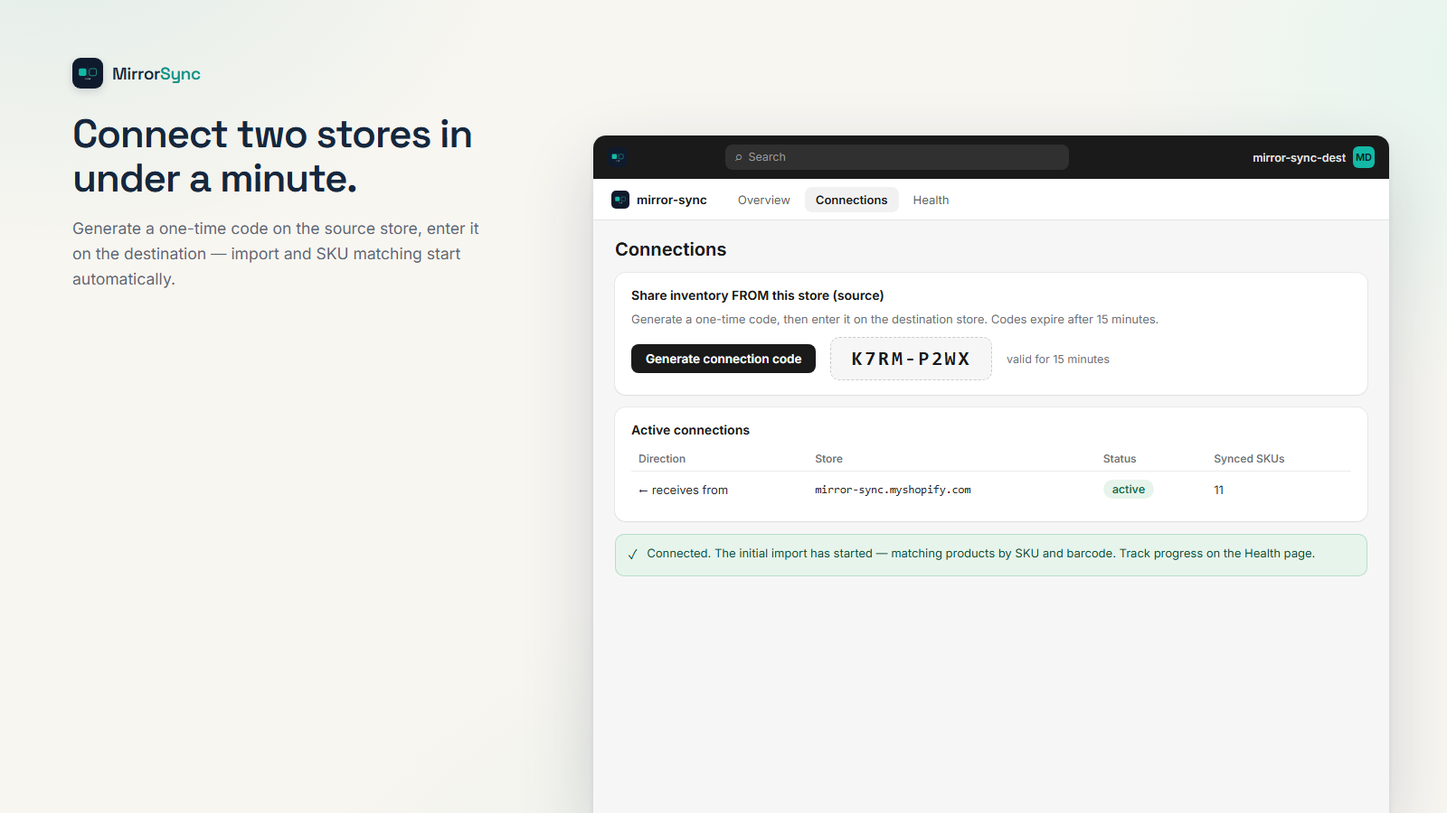
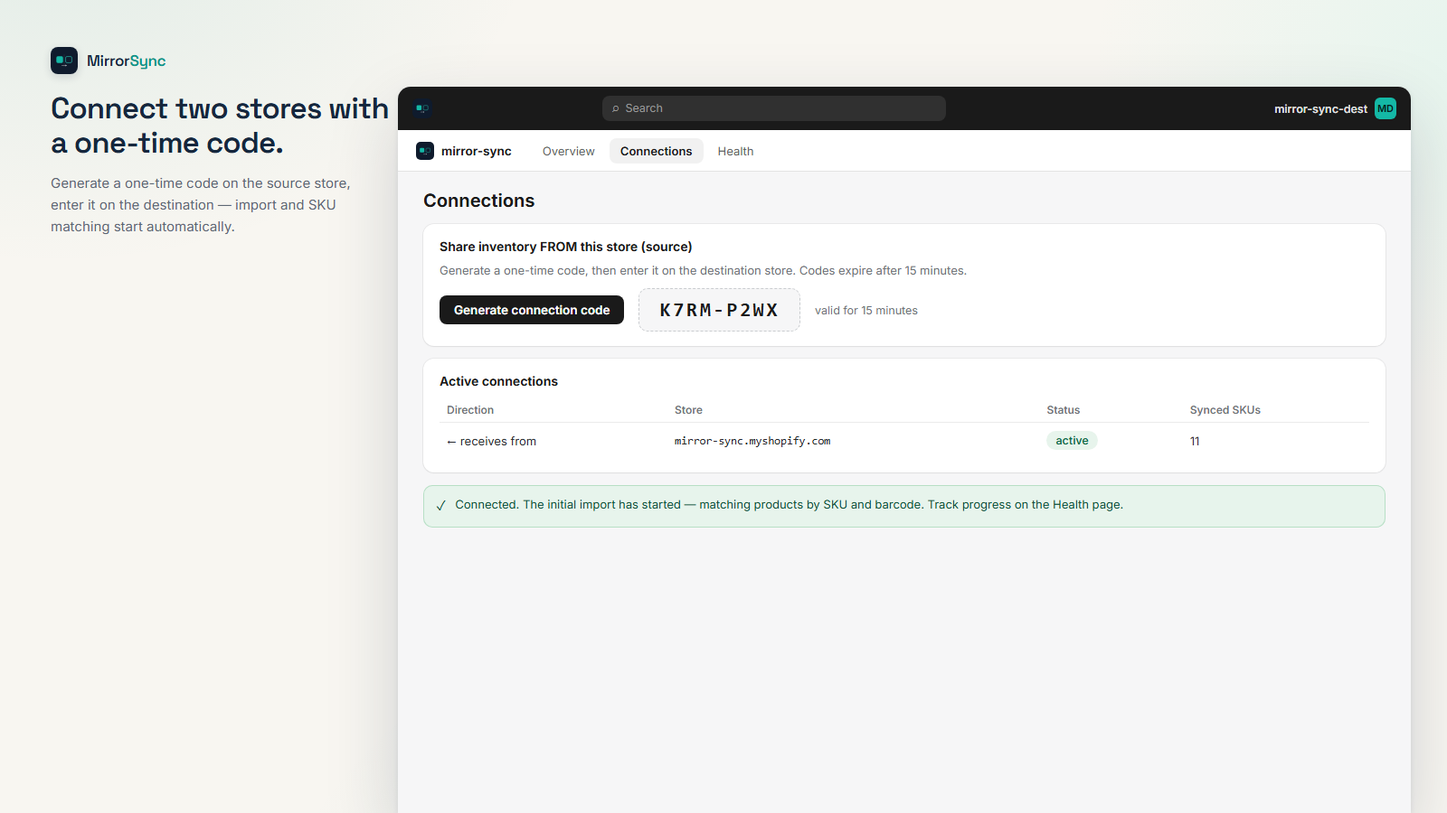
Listing compliance: remove absolute claims, UI-dominant images + feature image
Shopify's listing AI check flagged unsubstantiated claims and a
logo-only feature image. Copy now uses mechanism-based wording (dropped
'never oversells', 'quantities never go negative', 'guaranteed
convergence', 'under 30 seconds'/'under a minute'). Images regenerated
with the admin window dominant (1120px wide) and a new 0-feature.png
(near-full-width UI, slim brand band) for the Feature Image slot.

diff --git a/listing-assets/src/0-feature.html b/listing-assets/src/0-feature.html
@@ -1,0 +1,102 @@
+<!doctype html><html><head><meta charset="utf-8">
+<link rel="preconnect" href="https://fonts.googleapis.com">
+<link href="https://fonts.googleapis.com/css2?family=Space+Grotesk:wght@500;600&family=Inter:wght@400;450;550;600;650&display=swap" rel="stylesheet">
+<style>
+  * { margin:0; padding:0; box-sizing:border-box; }
+  body { width:1600px; height:900px; overflow:hidden; font-family:Inter,system-ui,sans-serif;
+    background:#f8f6f1;
+    background-image:
+      radial-gradient(900px 700px at 4% -14%, rgba(13,148,136,.10), transparent 60%),
+      radial-gradient(760px 640px at 103% 8%, rgba(94,234,212,.12), transparent 58%),
+      radial-gradient(1000px 800px at 55% 125%, rgba(13,148,136,.06), transparent 62%);
+  }
+  
+  .cap { position:absolute; top:34px; left:64px; right:64px; display:flex; align-items:center; gap:18px; }
+  .brand { display:flex; align-items:center; gap:10px; }
+  .brand svg { width:30px; height:30px; border-radius:8px; box-shadow:0 3px 10px rgba(22,39,61,.16); }
+  .brand span { font-family:'Space Grotesk'; font-weight:600; font-size:17px; color:#16273d; letter-spacing:-.02em; }
+  .brand b { color:#0d9488; font-weight:600; }
+  h1 { font-family:'Space Grotesk'; font-weight:600; font-size:26px; letter-spacing:-.02em; color:#16273d; }
+  .sub { display:none; }
+  .win { position:absolute; left:64px; right:64px; top:104px; height:796px;
+    background:#f6f6f7; border-radius:14px 14px 0 0; overflow:hidden;
+    box-shadow:0 2px 6px rgba(22,39,61,.08), 0 30px 80px rgba(22,39,61,.18); }
+  .content { padding:20px 28px; height:702px; overflow:hidden; }
+  .topbar { height:48px; background:#1a1a1a; display:flex; align-items:center; padding:0 16px; gap:14px; }
+  .topbar .mark { width:22px; height:22px; border-radius:6px; }
+  .topbar .search { flex:1; max-width:380px; margin:0 auto; height:28px; background:#303030; border-radius:8px;
+    display:flex; align-items:center; padding:0 10px; color:#9a9a9a; font-size:12.5px; gap:6px; }
+  .topbar .shop { color:#e3e3e3; font-size:12.5px; font-weight:550; margin-left:auto; display:flex; align-items:center; gap:8px; }
+  .topbar .avatar { width:24px; height:24px; border-radius:6px; background:#14b8a6; color:#04231f; font-size:11px; font-weight:700;
+    display:flex; align-items:center; justify-content:center; }
+  .appnav { height:46px; background:#fff; border-bottom:1px solid #e3e3e3; display:flex; align-items:center; padding:0 20px; gap:4px; }
+  .appnav .title { display:flex; align-items:center; gap:8px; font-weight:650; font-size:13.5px; color:#1a1a1a; margin-right:18px; }
+  .appnav .title svg { width:20px; height:20px; border-radius:5px; }
+  .appnav a { font-size:13px; color:#5c5f62; padding:6px 12px; border-radius:8px; text-decoration:none; }
+  .appnav a.on { background:#f1f1f1; color:#1a1a1a; font-weight:600; }
+  .pagehead { font-weight:650; font-size:20px; color:#1a1a1a; margin-bottom:14px; }
+  .card { background:#fff; border-radius:12px; box-shadow:0 1px 2px rgba(0,0,0,.05), 0 0 0 1px rgba(0,0,0,.05); padding:16px 18px; margin-bottom:14px; }
+  .card h3 { font-size:14px; font-weight:650; color:#1a1a1a; margin-bottom:10px; }
+  table { width:100%; border-collapse:collapse; font-size:13px; color:#26292c; }
+  th { text-align:left; font-weight:550; color:#6d7175; font-size:12px; padding:6px 8px; border-bottom:1px solid #ebebeb; }
+  td { padding:9px 8px; border-bottom:1px solid #f1f1f1; vertical-align:middle; }
+  tr:last-child td { border-bottom:none; }
+  .mono { font-family:ui-monospace,Consolas,monospace; font-size:12.5px; }
+  .muted { color:#6d7175; }
+  .banner { display:flex; gap:10px; border-radius:10px; padding:12px 14px; font-size:13px; line-height:1.5; margin-bottom:14px; align-items:flex-start; }
+  .banner.warn { background:#fdf3dc; color:#57430e; box-shadow:0 0 0 1px #f0dbA5 inset; }
+  .banner.ok { background:#e7f4ec; color:#0d4f34; box-shadow:0 0 0 1px #b7dfc5 inset; }
+  .dot { width:8px; height:8px; border-radius:50%; flex:none; margin-top:6px; }
+  .act { display:flex; gap:10px; padding:9px 0; border-bottom:1px solid #f1f1f1; font-size:13px; align-items:flex-start; line-height:1.5; }
+  .act:last-child { border-bottom:none; }
+  .act time { margin-left:auto; color:#8c9196; font-size:12px; white-space:nowrap; padding-left:14px; }
+</style></head><body>
+<div class="cap">
+  <div class="brand"><svg class="" viewBox="0 0 1200 1200" xmlns="http://www.w3.org/2000/svg">
+  <rect width="1200" height="1200" rx="140" fill="#0F1B2D"/>
+  <line x1="600" y1="320" x2="600" y2="880" stroke="rgba(255,255,255,0.28)" stroke-width="10"/>
+  <rect x="252" y="412" width="296" height="296" rx="64" fill="#14B8A6"/>
+  <rect x="663" y="423" width="274" height="274" rx="56" fill="none" stroke="#2DD4BF" stroke-width="22"/>
+  <line x1="500" y1="820" x2="660" y2="820" stroke="rgba(255,255,255,0.85)" stroke-width="16" stroke-linecap="round"/>
+  <path d="M660,784 L716,820 L660,856 Z" fill="rgba(255,255,255,0.85)"/>
+</svg><span>Mirror<b>Sync</b></span></div>
+  <h1>Inventory sync that checks itself — and shows its work.</h1>
+  <p class="sub"></p>
+</div>
+<div class="win">
+  <div class="topbar">
+    <svg class="mark" viewBox="0 0 1200 1200" xmlns="http://www.w3.org/2000/svg">
+  <rect width="1200" height="1200" rx="140" fill="#0F1B2D"/>
+  <line x1="600" y1="320" x2="600" y2="880" stroke="rgba(255,255,255,0.28)" stroke-width="10"/>
+  <rect x="252" y="412" width="296" height="296" rx="64" fill="#14B8A6"/>
+  <rect x="663" y="423" width="274" height="274" rx="56" fill="none" stroke="#2DD4BF" stroke-width="22"/>
+  <line x1="500" y1="820" x2="660" y2="820" stroke="rgba(255,255,255,0.85)" stroke-width="16" stroke-linecap="round"/>
+  <path d="M660,784 L716,820 L660,856 Z" fill="rgba(255,255,255,0.85)"/>
+</svg>
+    <div class="search">⌕&nbsp; Search</div>
+    <div class="shop"><span>mirror-sync-dest</span><span class="avatar">MD</span></div>
+  </div>
+  <div class="appnav">
+    <span class="title"><svg class="" viewBox="0 0 1200 1200" xmlns="http://www.w3.org/2000/svg">
+  <rect width="1200" height="1200" rx="140" fill="#0F1B2D"/>
+  <line x1="600" y1="320" x2="600" y2="880" stroke="rgba(255,255,255,0.28)" stroke-width="10"/>
+  <rect x="252" y="412" width="296" height="296" rx="64" fill="#14B8A6"/>
+  <rect x="663" y="423" width="274" height="274" rx="56" fill="none" stroke="#2DD4BF" stroke-width="22"/>
+  <line x1="500" y1="820" x2="660" y2="820" stroke="rgba(255,255,255,0.85)" stroke-width="16" stroke-linecap="round"/>
+  <path d="M660,784 L716,820 L660,856 Z" fill="rgba(255,255,255,0.85)"/>
+</svg>mirror-sync</span>
+    <a class="">Overview</a><a class="">Connections</a><a class="on">Health</a>
+  </div>
+  <div class="content">
+      <div class="pagehead">Health</div>
+      <div class="card" style="display:flex;align-items:center;gap:12px;">
+        <span style="font-size:13.5px;">Receives inventory from <span class="mono">mirror-sync.myshopify.com</span></span>
+        <span style="display:inline-block;background:#e7f4ec;color:#0d6b45;font-size:12.5px;font-weight:550;padding:3px 10px;border-radius:20px;white-space:nowrap;">Active</span>
+        <span style="margin-left:auto"><span style="display:inline-block;padding:8px 16px;border-radius:8px;font-size:13.5px;font-weight:600;cursor:default;background:#1a1a1a;color:#fff;">Resync now</span></span>
+      </div>
+      <div class="card">
+        <h3>Activity</h3>
+        <div class="act"><span class="dot" style="background:#0d9488"></span><span>Hourly check finished: 9 SKUs compared, 0 drifted and were corrected.</span><time>2 min ago</time></div><div class="act"><span class="dot" style="background:#0d9488"></span><span>Drift repaired for SKU SYNC-CAP: mirror-sync-dest.myshopify.com had 999, corrected to 42 to match mirror-sync.myshopify.com.</span><time>19 min ago</time></div><div class="act"><span class="dot" style="background:#0d9488"></span><span>Drift repaired for SKU SYNC-CAP: mirror-sync-dest.myshopify.com had 640, corrected to 42 to match mirror-sync.myshopify.com.</span><time>20 min ago</time></div><div class="act"><span class="dot" style="background:#0d9488"></span><span>Drift repaired for SKU SYNC-TEE-L: mirror-sync-dest.myshopify.com had 888, corrected to 8 to match mirror-sync.myshopify.com.</span><time>21 min ago</time></div><div class="act"><span class="dot" style="background:#0d9488"></span><span>Drift repaired for SKU SYNC-TEE-M: mirror-sync-dest.myshopify.com had 777, corrected to 27 to match mirror-sync.myshopify.com.</span><time>24 min ago</time></div><div class="act"><span class="dot" style="background:#0d9488"></span><span>Inventory synced for SKU SYNC-TEE-M: 30 → 14 at mirror-sync-dest.myshopify.com.</span><time>1 hr ago</time></div><div class="act"><span class="dot" style="background:#20527d"></span><span>Initial matching finished: 6 SKUs matched by SKU, 4 by barcode. Now pushing initial inventory levels.</span><time>1 hr ago</time></div>
+      </div></div>
+</div>
+</body></html>

diff --git a/listing-assets/src/5-settings.html b/listing-assets/src/5-settings.html
@@ -10,16 +10,18 @@
       radial-gradient(760px 640px at 103% 8%, rgba(94,234,212,.12), transparent 58%),
       radial-gradient(1000px 800px at 55% 125%, rgba(13,148,136,.06), transparent 62%);
   }
-  .cap { position:absolute; top:64px; left:80px; width:560px; }
-  .brand { display:flex; align-items:center; gap:10px; margin-bottom:26px; }
-  .brand svg { width:34px; height:34px; border-radius:9px; box-shadow:0 3px 10px rgba(22,39,61,.16); }
-  .brand span { font-family:'Space Grotesk'; font-weight:600; font-size:19px; color:#16273d; letter-spacing:-.02em; }
+  
+  .cap { position:absolute; top:52px; left:56px; width:380px; }
+  .brand { display:flex; align-items:center; gap:10px; margin-bottom:20px; }
+  .brand svg { width:30px; height:30px; border-radius:8px; box-shadow:0 3px 10px rgba(22,39,61,.16); }
+  .brand span { font-family:'Space Grotesk'; font-weight:600; font-size:17px; color:#16273d; letter-spacing:-.02em; }
   .brand b { color:#0d9488; font-weight:600; }
-  h1 { font-family:'Space Grotesk'; font-weight:600; font-size:44px; line-height:1.12; letter-spacing:-.028em; color:#16273d; }
-  .sub { margin-top:16px; font-size:17.5px; line-height:1.6; color:#5c6774; max-width:470px; }
-  .win { position:absolute; right:64px; top:150px; width:880px; height:750px;
+  h1 { font-family:'Space Grotesk'; font-weight:600; font-size:33px; line-height:1.15; letter-spacing:-.024em; color:#16273d; }
+  .sub { margin-top:13px; font-size:15px; line-height:1.6; color:#5c6774; max-width:350px; }
+  .win { position:absolute; right:40px; top:96px; width:1120px; height:804px;
     background:#f6f6f7; border-radius:14px 14px 0 0; overflow:hidden;
     box-shadow:0 2px 6px rgba(22,39,61,.08), 0 30px 80px rgba(22,39,61,.18); }
+  .content { padding:20px 28px; height:710px; overflow:hidden; }
   .topbar { height:48px; background:#1a1a1a; display:flex; align-items:center; padding:0 16px; gap:14px; }
   .topbar .mark { width:22px; height:22px; border-radius:6px; }
   .topbar .search { flex:1; max-width:380px; margin:0 auto; height:28px; background:#303030; border-radius:8px;
@@ -32,7 +34,6 @@
   .appnav .title svg { width:20px; height:20px; border-radius:5px; }
   .appnav a { font-size:13px; color:#5c5f62; padding:6px 12px; border-radius:8px; text-decoration:none; }
   .appnav a.on { background:#f1f1f1; color:#1a1a1a; font-weight:600; }
-  .content { padding:20px 24px; height:656px; overflow:hidden; }
   .pagehead { font-weight:650; font-size:20px; color:#1a1a1a; margin-bottom:14px; }
   .card { background:#fff; border-radius:12px; box-shadow:0 1px 2px rgba(0,0,0,.05), 0 0 0 1px rgba(0,0,0,.05); padding:16px 18px; margin-bottom:14px; }
   .card h3 { font-size:14px; font-weight:650; color:#1a1a1a; margin-bottom:10px; }
@@ -60,7 +61,7 @@
   <path d="M660,784 L716,820 L660,856 Z" fill="rgba(255,255,255,0.85)"/>
 </svg><span>Mirror<b>Sync</b></span></div>
   <h1>Sync exactly what you want — nothing more.</h1>
-  <p class="sub">Inventory is the core. Titles, prices, tags and metafields are opt-in — and a safety buffer keeps restocks from overselling.</p>
+  <p class="sub">Inventory is the core. Titles, prices, tags and metafields are opt-in — and a safety stock buffer keeps a margin during restocks.</p>
 </div>
 <div class="win">
   <div class="topbar">

diff --git a/listing-assets/src/3-connect.html b/listing-assets/src/3-connect.html
@@ -10,16 +10,18 @@
       radial-gradient(760px 640px at 103% 8%, rgba(94,234,212,.12), transparent 58%),
       radial-gradient(1000px 800px at 55% 125%, rgba(13,148,136,.06), transparent 62%);
   }
-  .cap { position:absolute; top:64px; left:80px; width:560px; }
-  .brand { display:flex; align-items:center; gap:10px; margin-bottom:26px; }
-  .brand svg { width:34px; height:34px; border-radius:9px; box-shadow:0 3px 10px rgba(22,39,61,.16); }
-  .brand span { font-family:'Space Grotesk'; font-weight:600; font-size:19px; color:#16273d; letter-spacing:-.02em; }
+  
+  .cap { position:absolute; top:52px; left:56px; width:380px; }
+  .brand { display:flex; align-items:center; gap:10px; margin-bottom:20px; }
+  .brand svg { width:30px; height:30px; border-radius:8px; box-shadow:0 3px 10px rgba(22,39,61,.16); }
+  .brand span { font-family:'Space Grotesk'; font-weight:600; font-size:17px; color:#16273d; letter-spacing:-.02em; }
   .brand b { color:#0d9488; font-weight:600; }
-  h1 { font-family:'Space Grotesk'; font-weight:600; font-size:44px; line-height:1.12; letter-spacing:-.028em; color:#16273d; }
-  .sub { margin-top:16px; font-size:17.5px; line-height:1.6; color:#5c6774; max-width:470px; }
-  .win { position:absolute; right:64px; top:150px; width:880px; height:750px;
+  h1 { font-family:'Space Grotesk'; font-weight:600; font-size:33px; line-height:1.15; letter-spacing:-.024em; color:#16273d; }
+  .sub { margin-top:13px; font-size:15px; line-height:1.6; color:#5c6774; max-width:350px; }
+  .win { position:absolute; right:40px; top:96px; width:1120px; height:804px;
     background:#f6f6f7; border-radius:14px 14px 0 0; overflow:hidden;
     box-shadow:0 2px 6px rgba(22,39,61,.08), 0 30px 80px rgba(22,39,61,.18); }
+  .content { padding:20px 28px; height:710px; overflow:hidden; }
   .topbar { height:48px; background:#1a1a1a; display:flex; align-items:center; padding:0 16px; gap:14px; }
   .topbar .mark { width:22px; height:22px; border-radius:6px; }
   .topbar .search { flex:1; max-width:380px; margin:0 auto; height:28px; background:#303030; border-radius:8px;
@@ -32,7 +34,6 @@
   .appnav .title svg { width:20px; height:20px; border-radius:5px; }
   .appnav a { font-size:13px; color:#5c5f62; padding:6px 12px; border-radius:8px; text-decoration:none; }
   .appnav a.on { background:#f1f1f1; color:#1a1a1a; font-weight:600; }
-  .content { padding:20px 24px; height:656px; overflow:hidden; }
   .pagehead { font-weight:650; font-size:20px; color:#1a1a1a; margin-bottom:14px; }
   .card { background:#fff; border-radius:12px; box-shadow:0 1px 2px rgba(0,0,0,.05), 0 0 0 1px rgba(0,0,0,.05); padding:16px 18px; margin-bottom:14px; }
   .card h3 { font-size:14px; font-weight:650; color:#1a1a1a; margin-bottom:10px; }
@@ -59,7 +60,7 @@
   <line x1="500" y1="820" x2="660" y2="820" stroke="rgba(255,255,255,0.85)" stroke-width="16" stroke-linecap="round"/>
   <path d="M660,784 L716,820 L660,856 Z" fill="rgba(255,255,255,0.85)"/>
 </svg><span>Mirror<b>Sync</b></span></div>
-  <h1>Connect two stores in under a minute.</h1>
+  <h1>Connect two stores with a one-time code.</h1>
   <p class="sub">Generate a one-time code on the source store, enter it on the destination — import and SKU matching start automatically.</p>
 </div>
 <div class="win">

diff --git a/listing-assets/src/1-health.html b/listing-assets/src/1-health.html
@@ -10,16 +10,18 @@
       radial-gradient(760px 640px at 103% 8%, rgba(94,234,212,.12), transparent 58%),
       radial-gradient(1000px 800px at 55% 125%, rgba(13,148,136,.06), transparent 62%);
   }
-  .cap { position:absolute; top:64px; left:80px; width:560px; }
-  .brand { display:flex; align-items:center; gap:10px; margin-bottom:26px; }
-  .brand svg { width:34px; height:34px; border-radius:9px; box-shadow:0 3px 10px rgba(22,39,61,.16); }
-  .brand span { font-family:'Space Grotesk'; font-weight:600; font-size:19px; color:#16273d; letter-spacing:-.02em; }
+  
+  .cap { position:absolute; top:52px; left:56px; width:380px; }
+  .brand { display:flex; align-items:center; gap:10px; margin-bottom:20px; }
+  .brand svg { width:30px; height:30px; border-radius:8px; box-shadow:0 3px 10px rgba(22,39,61,.16); }
+  .brand span { font-family:'Space Grotesk'; font-weight:600; font-size:17px; color:#16273d; letter-spacing:-.02em; }
   .brand b { color:#0d9488; font-weight:600; }
-  h1 { font-family:'Space Grotesk'; font-weight:600; font-size:44px; line-height:1.12; letter-spacing:-.028em; color:#16273d; }
-  .sub { margin-top:16px; font-size:17.5px; line-height:1.6; color:#5c6774; max-width:470px; }
-  .win { position:absolute; right:64px; top:150px; width:880px; height:750px;
+  h1 { font-family:'Space Grotesk'; font-weight:600; font-size:33px; line-height:1.15; letter-spacing:-.024em; color:#16273d; }
+  .sub { margin-top:13px; font-size:15px; line-height:1.6; color:#5c6774; max-width:350px; }
+  .win { position:absolute; right:40px; top:96px; width:1120px; height:804px;
     background:#f6f6f7; border-radius:14px 14px 0 0; overflow:hidden;
     box-shadow:0 2px 6px rgba(22,39,61,.08), 0 30px 80px rgba(22,39,61,.18); }
+  .content { padding:20px 28px; height:710px; overflow:hidden; }
   .topbar { height:48px; background:#1a1a1a; display:flex; align-items:center; padding:0 16px; gap:14px; }
   .topbar .mark { width:22px; height:22px; border-radius:6px; }
   .topbar .search { flex:1; max-width:380px; margin:0 auto; height:28px; background:#303030; border-radius:8px;
@@ -32,7 +34,6 @@
   .appnav .title svg { width:20px; height:20px; border-radius:5px; }
   .appnav a { font-size:13px; color:#5c5f62; padding:6px 12px; border-radius:8px; text-decoration:none; }
   .appnav a.on { background:#f1f1f1; color:#1a1a1a; font-weight:600; }
-  .content { padding:20px 24px; height:656px; overflow:hidden; }
   .pagehead { font-weight:650; font-size:20px; color:#1a1a1a; margin-bottom:14px; }
   .card { background:#fff; border-radius:12px; box-shadow:0 1px 2px rgba(0,0,0,.05), 0 0 0 1px rgba(0,0,0,.05); padding:16px 18px; margin-bottom:14px; }
   .card h3 { font-size:14px; font-weight:650; color:#1a1a1a; margin-bottom:10px; }

diff --git a/listing-assets/src/2-paused.html b/listing-assets/src/2-paused.html
@@ -10,16 +10,18 @@
       radial-gradient(760px 640px at 103% 8%, rgba(94,234,212,.12), transparent 58%),
       radial-gradient(1000px 800px at 55% 125%, rgba(13,148,136,.06), transparent 62%);
   }
-  .cap { position:absolute; top:64px; left:80px; width:560px; }
-  .brand { display:flex; align-items:center; gap:10px; margin-bottom:26px; }
-  .brand svg { width:34px; height:34px; border-radius:9px; box-shadow:0 3px 10px rgba(22,39,61,.16); }
-  .brand span { font-family:'Space Grotesk'; font-weight:600; font-size:19px; color:#16273d; letter-spacing:-.02em; }
+  
+  .cap { position:absolute; top:52px; left:56px; width:380px; }
+  .brand { display:flex; align-items:center; gap:10px; margin-bottom:20px; }
+  .brand svg { width:30px; height:30px; border-radius:8px; box-shadow:0 3px 10px rgba(22,39,61,.16); }
+  .brand span { font-family:'Space Grotesk'; font-weight:600; font-size:17px; color:#16273d; letter-spacing:-.02em; }
   .brand b { color:#0d9488; font-weight:600; }
-  h1 { font-family:'Space Grotesk'; font-weight:600; font-size:44px; line-height:1.12; letter-spacing:-.028em; color:#16273d; }
-  .sub { margin-top:16px; font-size:17.5px; line-height:1.6; color:#5c6774; max-width:470px; }
-  .win { position:absolute; right:64px; top:150px; width:880px; height:750px;
+  h1 { font-family:'Space Grotesk'; font-weight:600; font-size:33px; line-height:1.15; letter-spacing:-.024em; color:#16273d; }
+  .sub { margin-top:13px; font-size:15px; line-height:1.6; color:#5c6774; max-width:350px; }
+  .win { position:absolute; right:40px; top:96px; width:1120px; height:804px;
     background:#f6f6f7; border-radius:14px 14px 0 0; overflow:hidden;
     box-shadow:0 2px 6px rgba(22,39,61,.08), 0 30px 80px rgba(22,39,61,.18); }
+  .content { padding:20px 28px; height:710px; overflow:hidden; }
   .topbar { height:48px; background:#1a1a1a; display:flex; align-items:center; padding:0 16px; gap:14px; }
   .topbar .mark { width:22px; height:22px; border-radius:6px; }
   .topbar .search { flex:1; max-width:380px; margin:0 auto; height:28px; background:#303030; border-radius:8px;
@@ -32,7 +34,6 @@
   .appnav .title svg { width:20px; height:20px; border-radius:5px; }
   .appnav a { font-size:13px; color:#5c5f62; padding:6px 12px; border-radius:8px; text-decoration:none; }
   .appnav a.on { background:#f1f1f1; color:#1a1a1a; font-weight:600; }
-  .content { padding:20px 24px; height:656px; overflow:hidden; }
   .pagehead { font-weight:650; font-size:20px; color:#1a1a1a; margin-bottom:14px; }
   .card { background:#fff; border-radius:12px; box-shadow:0 1px 2px rgba(0,0,0,.05), 0 0 0 1px rgba(0,0,0,.05); padding:16px 18px; margin-bottom:14px; }
   .card h3 { font-size:14px; font-weight:650; color:#1a1a1a; margin-bottom:10px; }

diff --git a/listing-assets/src/4-mapping.html b/listing-assets/src/4-mapping.html
@@ -10,16 +10,18 @@
       radial-gradient(760px 640px at 103% 8%, rgba(94,234,212,.12), transparent 58%),
       radial-gradient(1000px 800px at 55% 125%, rgba(13,148,136,.06), transparent 62%);
   }
-  .cap { position:absolute; top:64px; left:80px; width:560px; }
-  .brand { display:flex; align-items:center; gap:10px; margin-bottom:26px; }
-  .brand svg { width:34px; height:34px; border-radius:9px; box-shadow:0 3px 10px rgba(22,39,61,.16); }
-  .brand span { font-family:'Space Grotesk'; font-weight:600; font-size:19px; color:#16273d; letter-spacing:-.02em; }
+  
+  .cap { position:absolute; top:52px; left:56px; width:380px; }
+  .brand { display:flex; align-items:center; gap:10px; margin-bottom:20px; }
+  .brand svg { width:30px; height:30px; border-radius:8px; box-shadow:0 3px 10px rgba(22,39,61,.16); }
+  .brand span { font-family:'Space Grotesk'; font-weight:600; font-size:17px; color:#16273d; letter-spacing:-.02em; }
   .brand b { color:#0d9488; font-weight:600; }
-  h1 { font-family:'Space Grotesk'; font-weight:600; font-size:44px; line-height:1.12; letter-spacing:-.028em; color:#16273d; }
-  .sub { margin-top:16px; font-size:17.5px; line-height:1.6; color:#5c6774; max-width:470px; }
-  .win { position:absolute; right:64px; top:150px; width:880px; height:750px;
+  h1 { font-family:'Space Grotesk'; font-weight:600; font-size:33px; line-height:1.15; letter-spacing:-.024em; color:#16273d; }
+  .sub { margin-top:13px; font-size:15px; line-height:1.6; color:#5c6774; max-width:350px; }
+  .win { position:absolute; right:40px; top:96px; width:1120px; height:804px;
     background:#f6f6f7; border-radius:14px 14px 0 0; overflow:hidden;
     box-shadow:0 2px 6px rgba(22,39,61,.08), 0 30px 80px rgba(22,39,61,.18); }
+  .content { padding:20px 28px; height:710px; overflow:hidden; }
   .topbar { height:48px; background:#1a1a1a; display:flex; align-items:center; padding:0 16px; gap:14px; }
   .topbar .mark { width:22px; height:22px; border-radius:6px; }
   .topbar .search { flex:1; max-width:380px; margin:0 auto; height:28px; background:#303030; border-radius:8px;
@@ -32,7 +34,6 @@
   .appnav .title svg { width:20px; height:20px; border-radius:5px; }
   .appnav a { font-size:13px; color:#5c5f62; padding:6px 12px; border-radius:8px; text-decoration:none; }
   .appnav a.on { background:#f1f1f1; color:#1a1a1a; font-weight:600; }
-  .content { padding:20px 24px; height:656px; overflow:hidden; }
   .pagehead { font-weight:650; font-size:20px; color:#1a1a1a; margin-bottom:14px; }
   .card { background:#fff; border-radius:12px; box-shadow:0 1px 2px rgba(0,0,0,.05), 0 0 0 1px rgba(0,0,0,.05); padding:16px 18px; margin-bottom:14px; }
   .card h3 { font-size:14px; font-weight:650; color:#1a1a1a; margin-bottom:10px; }

diff --git a/LISTING.md b/LISTING.md
@@ -19,13 +19,17 @@ Reliable inventory & product sync across all your stores
 Alternative (harder reliability angle):
 
 ```
-Inventory sync that catches drift and prevents overselling
+Inventory sync that finds and fixes drift automatically
 ```
+
+> Compliance note (Shopify's listing AI check): no statistics or absolute
+> claims — avoid "never oversells", "quantities never go negative",
+> "guaranteed", "under 30 seconds". Copy below is mechanism-based.
 
 ## App introduction (≤100 chars — top of the listing page)
 
 ```
-Keep stock identical across your stores. Self-healing sync that catches drift and never oversells.
+Keep stock aligned across your stores with self-healing sync that finds and repairs drift for you.
 ```
 
 ## App details (≤500 chars — main description)
@@ -33,19 +37,19 @@ Keep stock identical across your stores. Self-healing sync that catches drift an
 ```
 MirrorSync mirrors inventory and product data from one store to another in
 near real time — and keeps checking afterwards. Every hour it compares both
-stores SKU by SKU, repairs any drift, and writes a plain-language log of what
-changed and why. If stock keeps drifting or a product breaks, the SKU pauses
-safely and one click fixes it. A safety buffer keeps you from overselling
-during restocks and flash sales. Built for multi-brand operators, expansion
-stores, and supplier-retailer partnerships.
+stores SKU by SKU, repairs any drift it finds, and writes a plain-language
+log of what changed and why. If stock keeps drifting or a product breaks,
+the SKU pauses safely and one click fixes it. A safety stock buffer helps
+protect you from overselling during restocks and flash sales. Built for
+multi-brand operators, expansion stores, and supplier-retailer partnerships.
 ```
 
 ## Features (~80 chars each)
 
-1. Near real-time inventory sync — typically under 30 seconds, guaranteed convergence
-2. Hourly drift detection & self-repair: catches changes even when webhooks are missed
-3. Oversell guard: safety stock buffer, quantities never go negative
-4. Catches stock changes made by ANY app or manual edit — not just orders
+1. Fast inventory sync — updates flow to the mirrored store moments after a change
+2. Hourly drift detection and self-repair — catches changes even when a webhook is missed
+3. Oversell guard: a safety stock buffer keeps a margin between your stores
+4. Syncs stock changes from other apps and manual edits — not just orders
 5. Plain-language audit log + one-click resync when something needs attention
 6. Optional product sync: title, price, tags, images, and metafields by namespace
 7. SKU/barcode auto-matching on connect, with manual override for edge cases
@@ -55,6 +59,12 @@ stores, and supplier-retailer partnerships.
 ```
 inventory sync, multi store, sync stores, stock sync, connect stores
 ```
+
+## Images (1600×900) — generated in `listing-assets/`
+
+**Feature Image 1** → use `0-feature.png` (UI-dominant Health screen; the
+check rejects logo/illustration-only feature images — do NOT use the OG or
+app-icon file there).
 
 ## Screenshots (1600×900, 3–6) — capture scenarios
 
@@ -68,7 +78,7 @@ mock data looks bad in Built for Shopify review.
    row…` warning + Resync now button. Overlay: *"When something's wrong, it
    tells you in plain English."*
 3. **Connect flow:** the pairing code screen. Overlay: *"Connect two stores
-   in under a minute."*
+   with a one-time code."*
 4. **Mapping table:** auto-matched SKUs with auto_sku / auto_barcode / manual
    badges. Overlay: *"SKUs match themselves. You approve the edge cases."*
 5. **Settings:** safety buffer + field-selective sync. Overlay: *"Sync exactly
